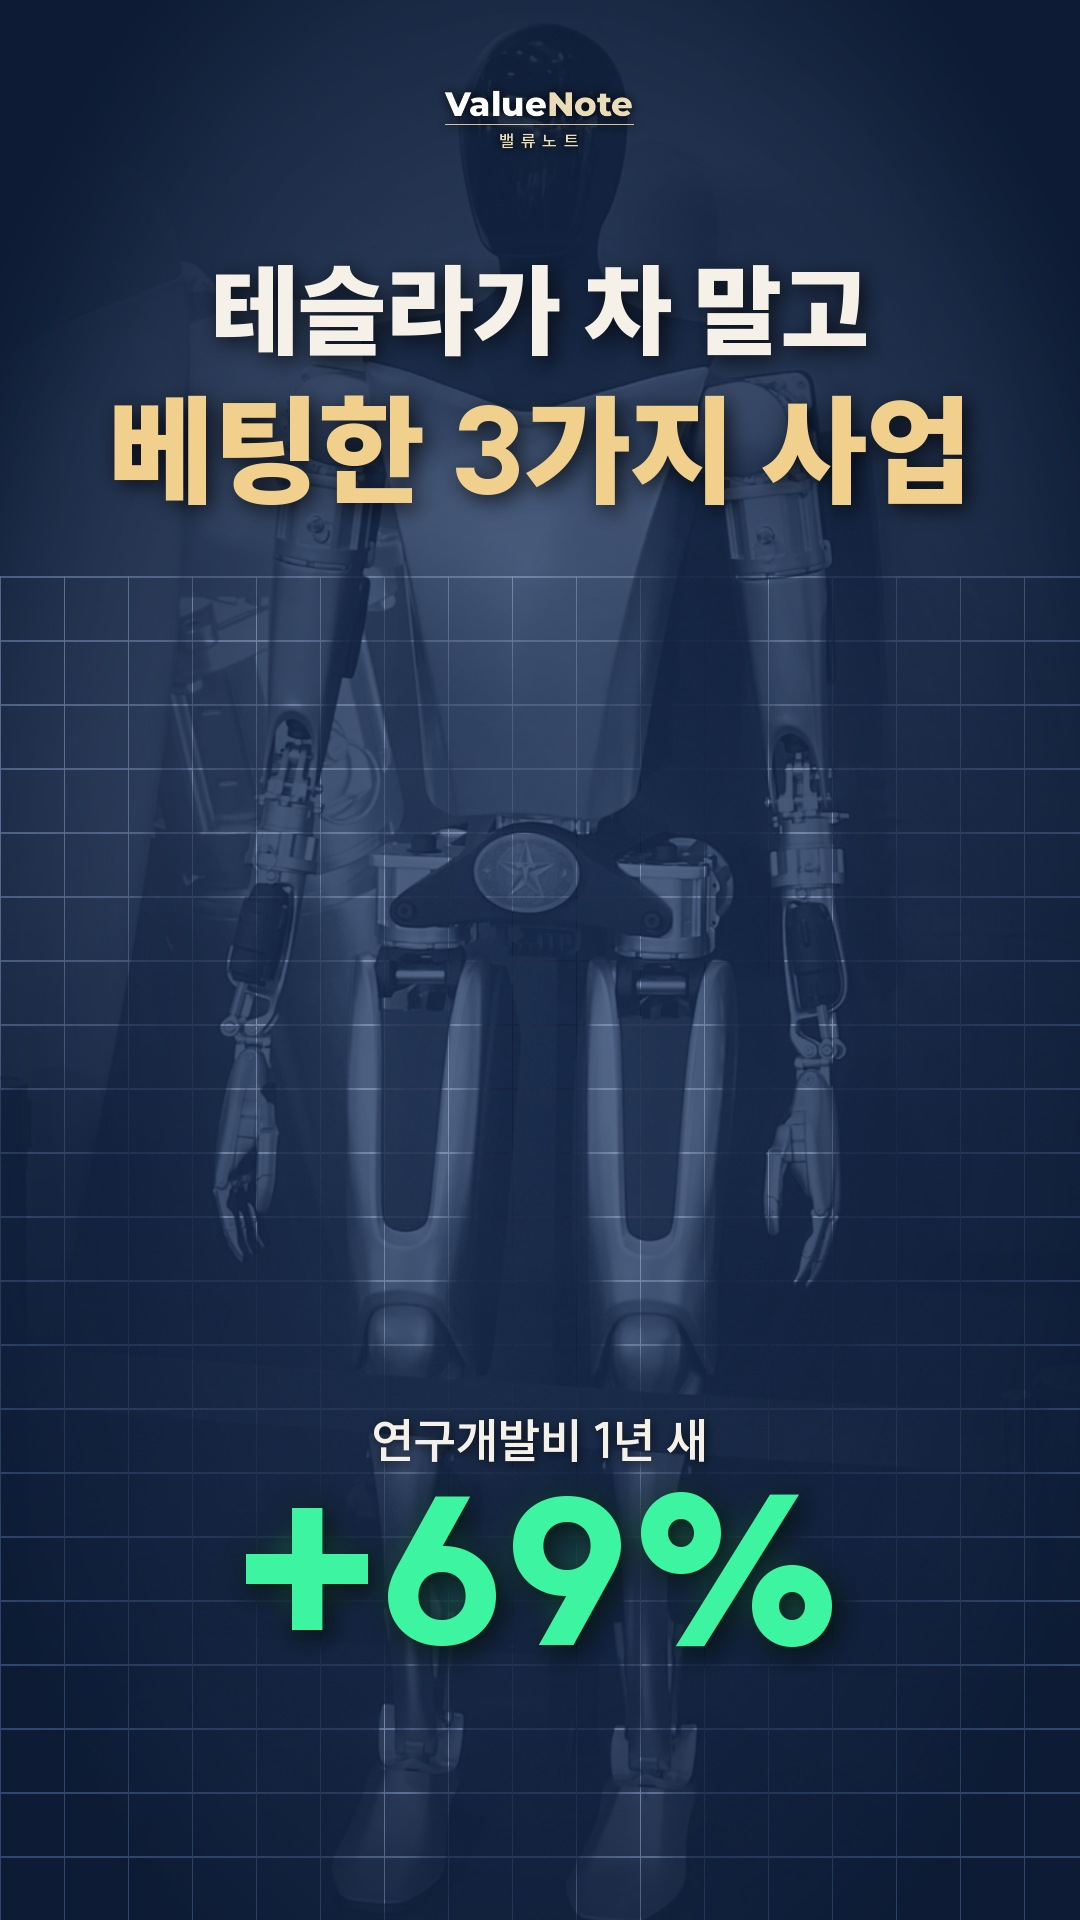
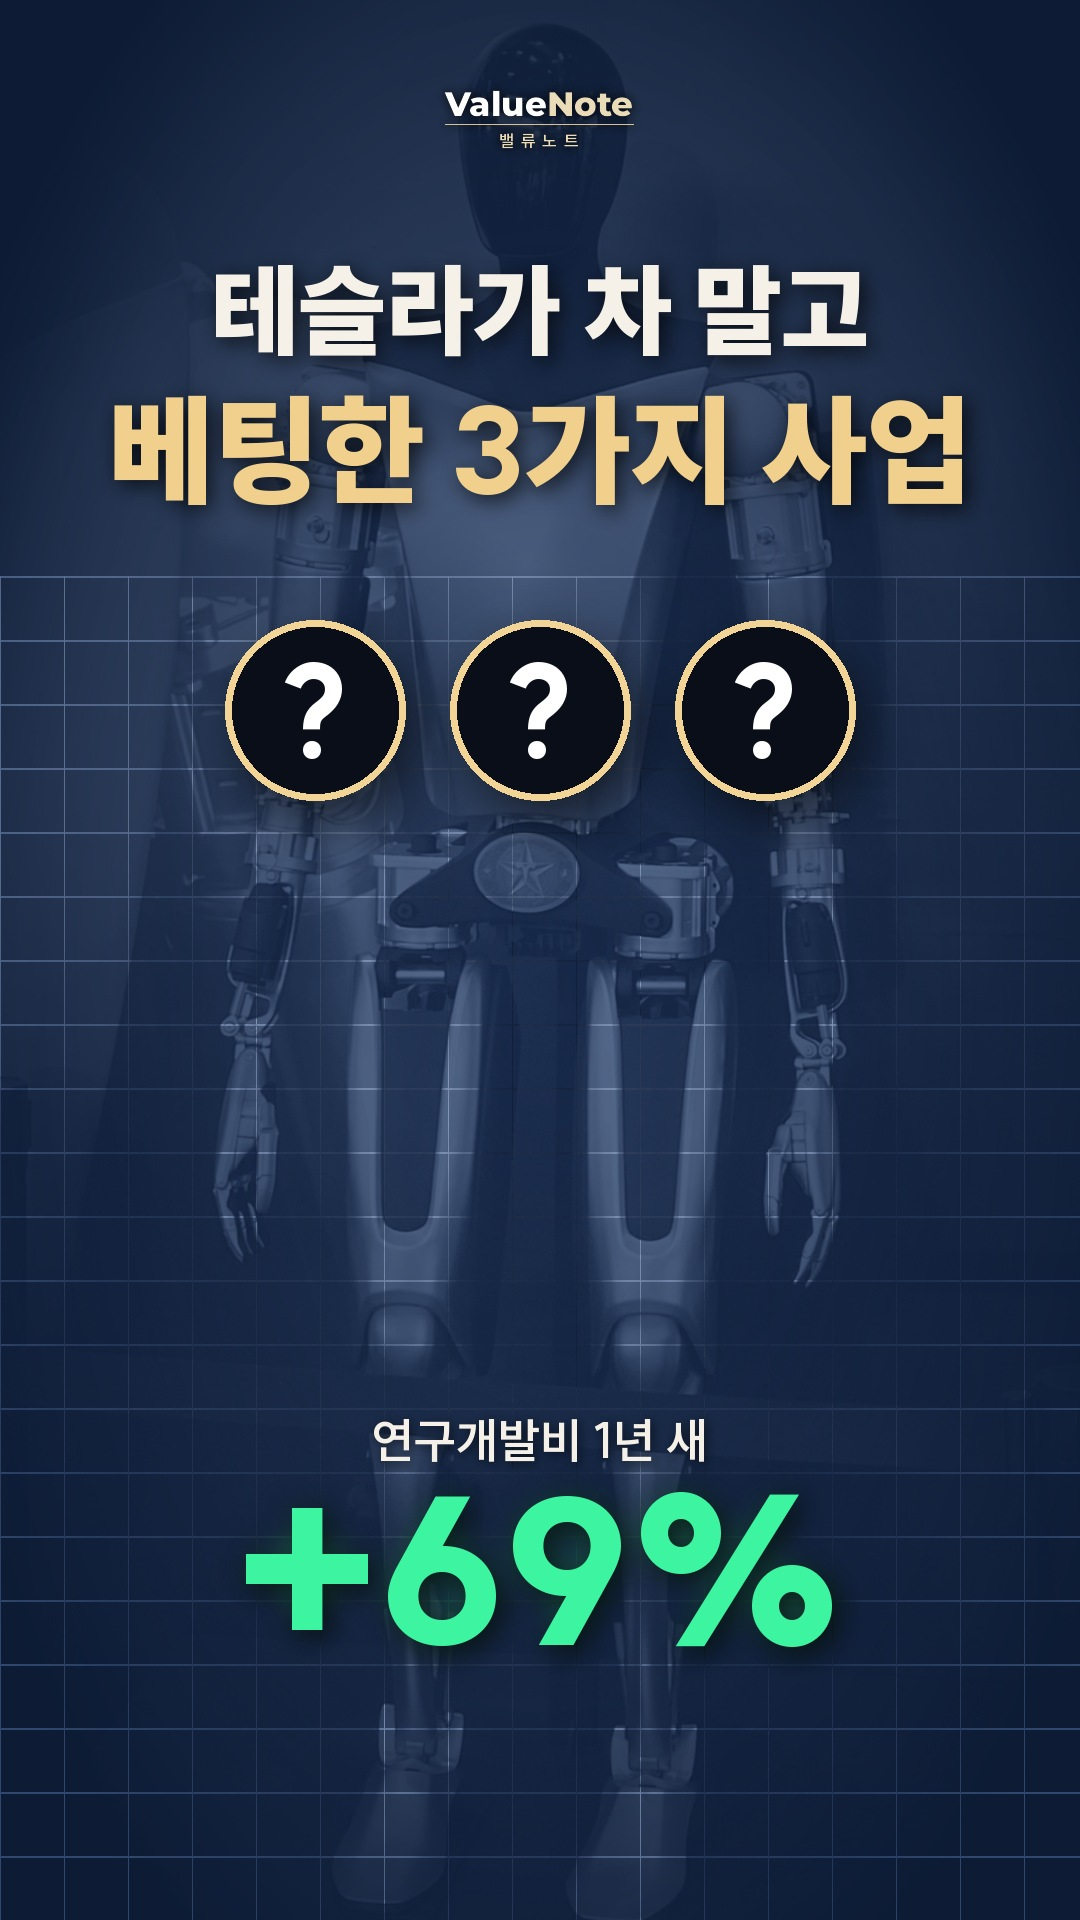
테슬라 3가지 사업 릴스 표지: 물음표 동그라미 셋 포인트
Claude-Session: https://claude.ai/code/session_01KaYReJF2Y3F711tBqh9FCJ

Changed region(s): [[0.1833, 0.3125, 0.7944, 0.4375]]

diff --git a/scripts/reels/thumb_simple.py b/scripts/reels/thumb_simple.py
@@ -391,6 +391,12 @@ def emblem(im, kind, cx, cy, size, text=None):
         d.polygon([(x0, y0 + t), (x0 + w, y0 + t), (x0 + w * .94, y0 + h), (x0 + w * .06, y0 + h)], fill=(214, 168, 70))
         d.polygon([(x0 + w * .2, y0 + t * .2), (x0 + w * .5, y0 + t * .2), (x0 + w * .45, y0 + t * .8), (x0 + w * .12, y0 + t * .8)], fill=(255, 240, 196))
         d.text((cx, y0 + t + (h - t) / 2), text or "GOLD", font=F("Mont", int(size * .2)), fill=(150, 108, 30), anchor="mm")
+    elif kind == "q3":   # 물음표 동그라미 셋 (2026-10-29 운영자: "가운데 세 개 아이콘이 검정 배경에 물음표로 3개") — 숫자 3가지가 무엇인지 궁금하게
+        r = size * .3; gap = r * 2.5
+        for k in (-1, 0, 1):
+            x = cx + k * gap
+            d.ellipse([x - r, cy - r, x + r, cy + r], fill=(10, 14, 24), outline=(242, 212, 151), width=max(3, int(size * .025)))
+            d.text((x, cy + size * .015), "?", font=F("Heavy", int(r * 1.25)), fill=(255, 255, 255), anchor="mm")
     elif kind == "stamp":
         f = F("Heavy", int(size * .42)); tw = f.getlength(text); w, h = tw + size * .5, size * .78
         st = Image.new("RGBA", (int(w + 40), int(h + 40)), (0, 0, 0, 0)); ds = ImageDraw.Draw(st); c = (255, 77, 109)
